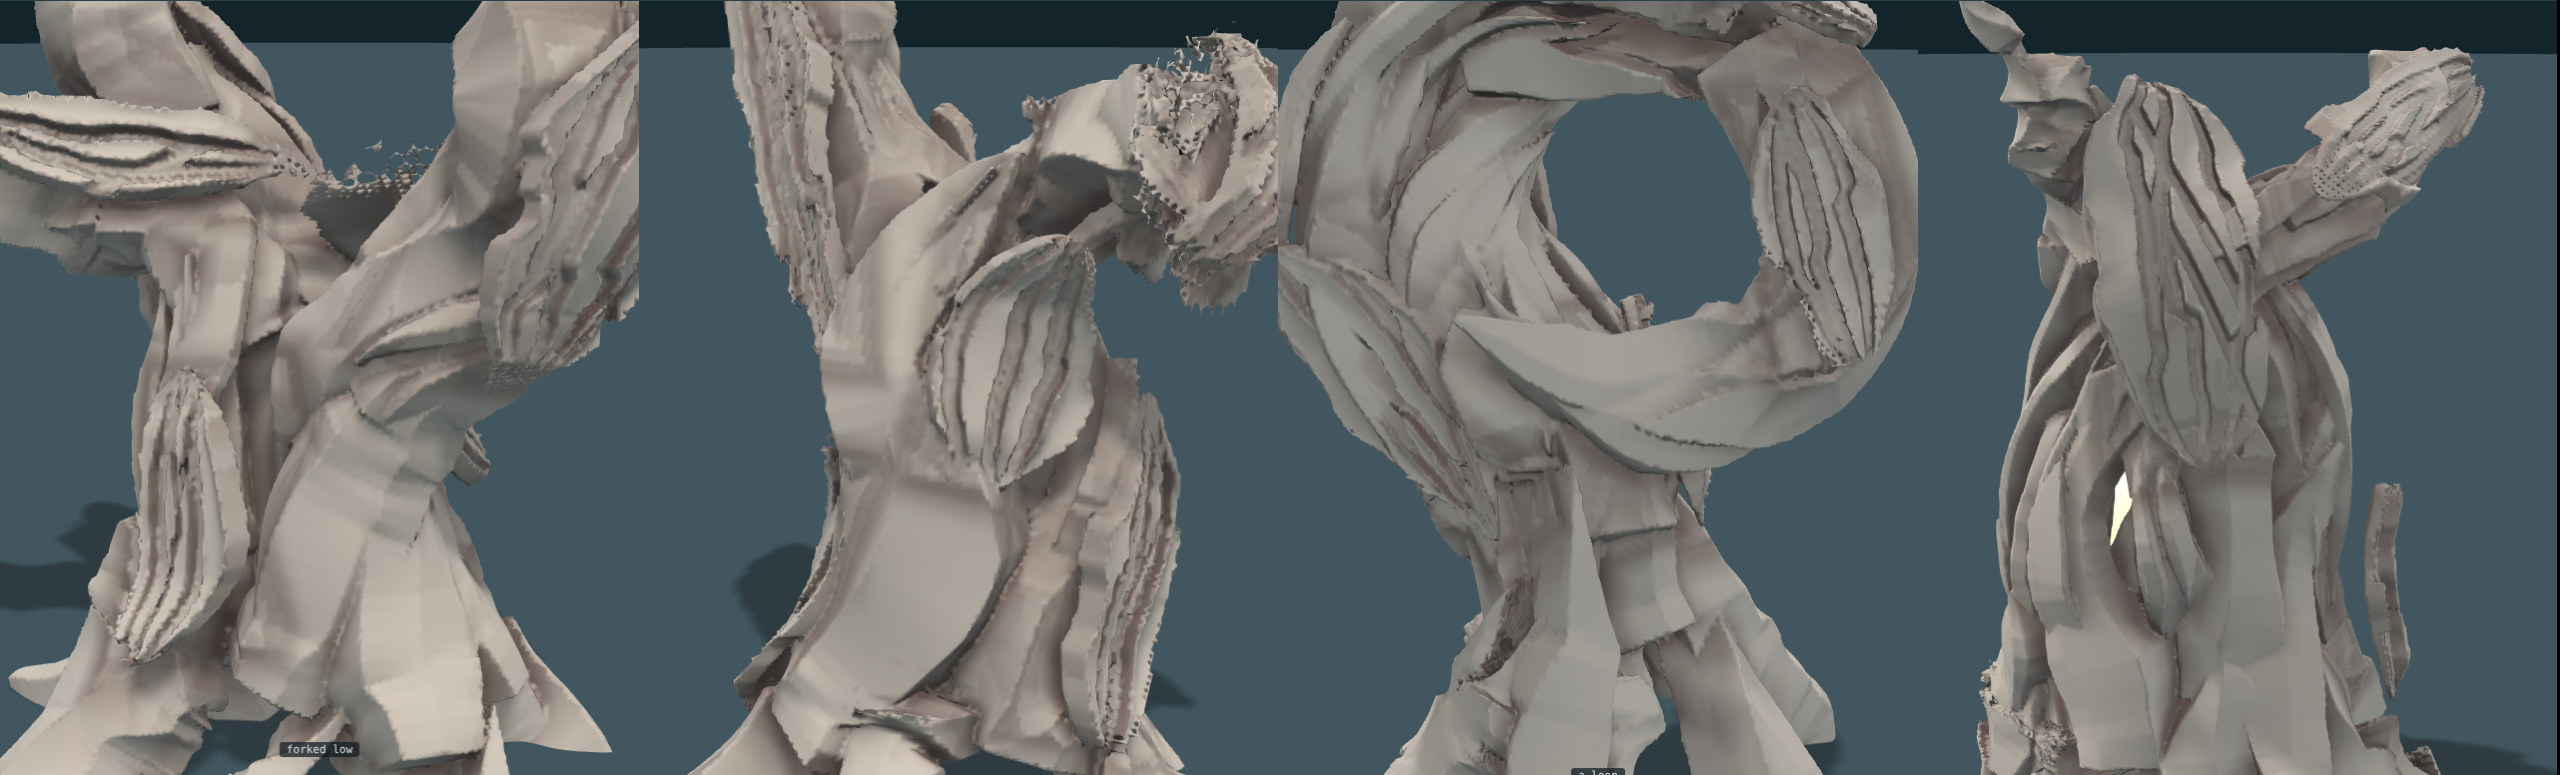
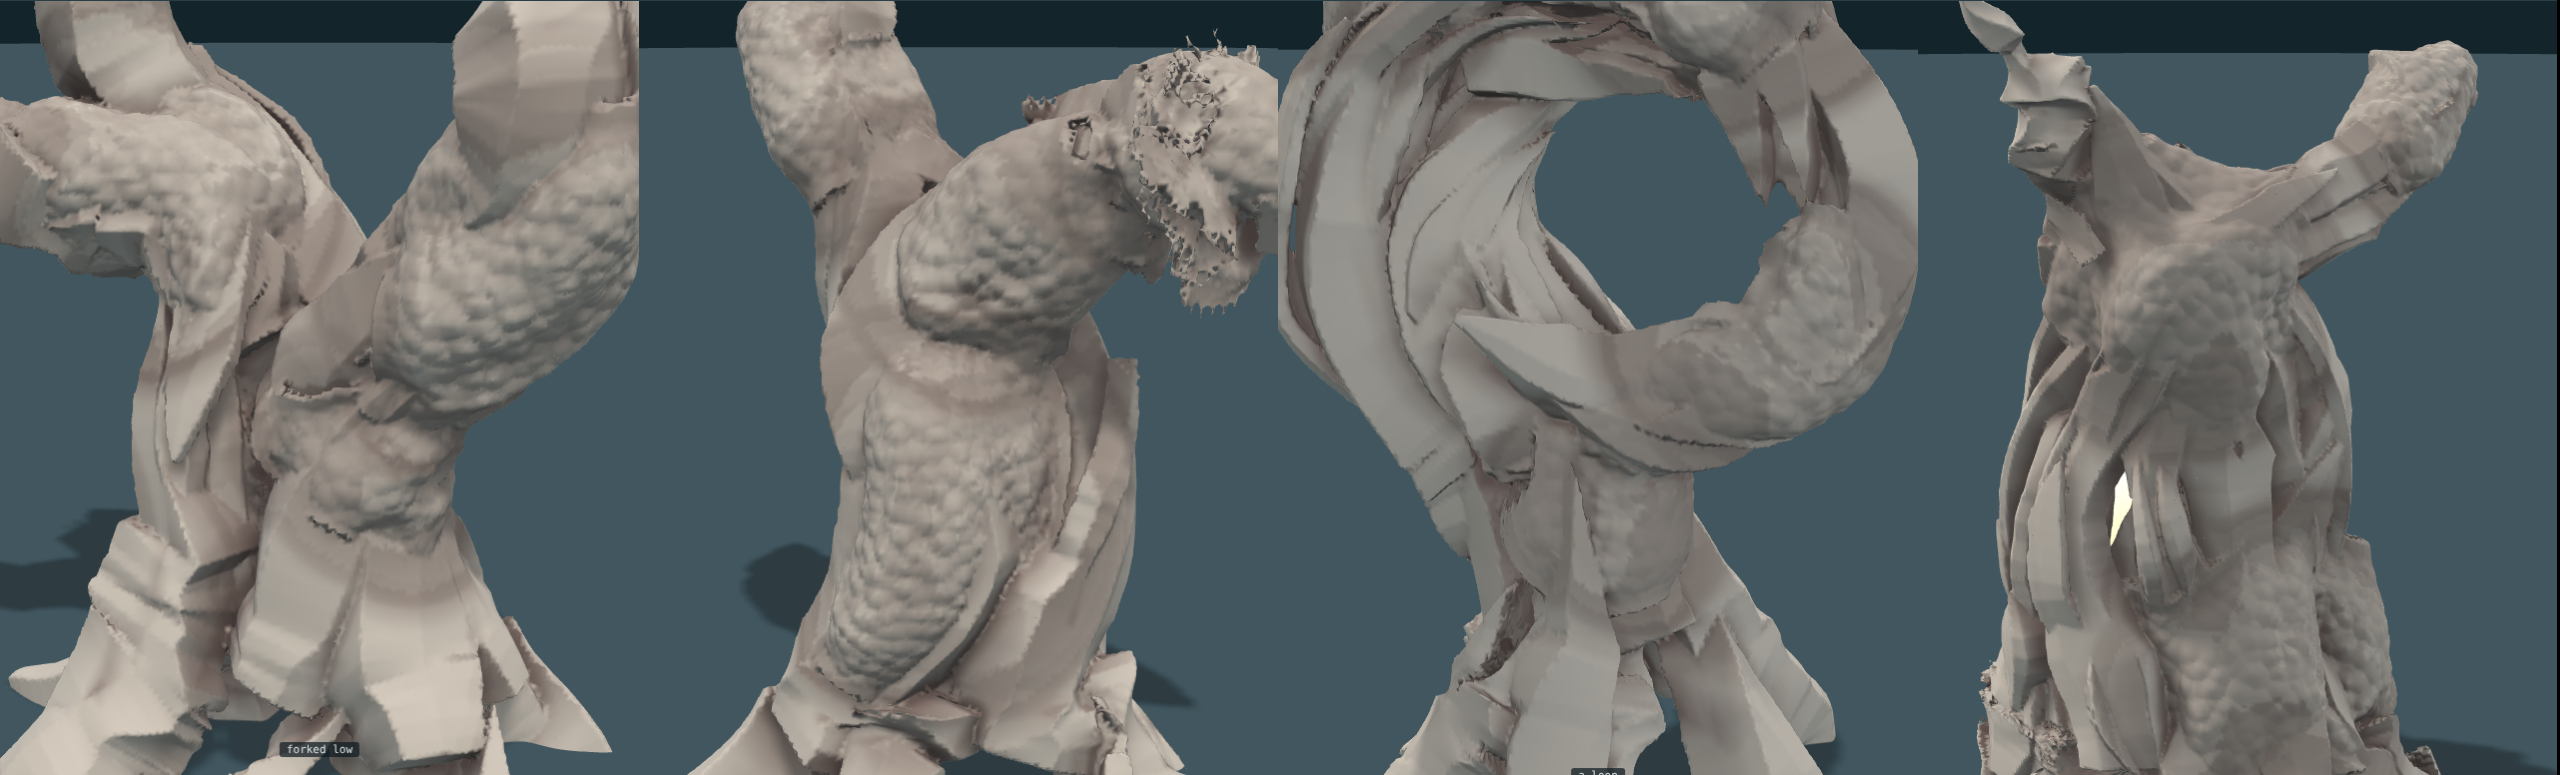
Trees: bark as sheets of tissue with coarse directionless grit; furrowed bark withdrawn
Claude-Session: https://claude.ai/code/session_0192rgp75jGkttZXf7hEakip

diff --git a/sketch/page7.js b/sketch/page7.js
@@ -5,7 +5,7 @@
 //            that snapped ends in a break, cut on the slant or stepped.
 //   slivers  narrow shards lying on the bands, pointed at both ends, their far ends standing off.
 //   shell    thin plates in a few places, a little broader than a strand, lying close.
-//   bark     the third layer: a few stiff patches lying over several strands at once, furrowed into plates. Back sunk into the band, front lying on
+//   bark     the third layer: a few sheets of tissue, each one unbroken skin over a region, with coarse grit. Back sunk into the band, front lying on
 //            top and ending in a point, a slant or a step; nearly all face toward the tip. No plate passes
 //            through another. One or two have split from the front.
 // Nothing is swept or blended. Throwaway like the other pages.
@@ -117,50 +117,37 @@
       if (!st) { count.dropped++; continue; }
       plate(s, st[0], st[1], forward, side, wide, high, split ? 'blunt' : e < 0.7 ? 'point' : 'blunt', { ridge: rd, eL, eR, split: split ? { fromEnd: true, s0: 0.42 + 0.2 * u1, s1: 1.001, u: 0.4 * (u2 - 0.5), wide: 0.2 + 0.12 * u3, lift: 0.5 + 0.5 * u4, depth: 9 } : null }, sd);
     }
-    // Bark: the third layer. A patch of bark is a stiff sheet lying over several strands at once. It rests on
-    // their ridges and spans the grooves between them, so under it the strands cannot be told apart. It is
-    // broken into long plates by furrows that run with the grain, and by an odd slanted break; each plate has
-    // its own thickness and is a little cupped. Like the shell it has a direction: its back thins into the wood
-    // and its front lifts clear, with a gap under it. There are a few patches to a tree, none near an orb.
-    const barkCount = recipe.bare ? 0 : recipe.bark === undefined ? 6 : recipe.bark, barks = [], rb = rng((recipe.seed || 1) + 123), woodPts = [];
-    for (const q of t.strands) if (!q.thread) for (let i = 0; i < q.K; i++) woodPts.push([q.X[i * 3], q.X[i * 3 + 1], q.X[i * 3 + 2], q.rho[i]]);
-    const barkPatch = (a, o, T, A, B, th) => {
-      const side = cross(T, o), g0 = 0.02, ns = Math.ceil(2 * A / g0) + 1, nu = Math.ceil(2 * B / g0) + 1; let h = new Float32Array(ns * nu).fill(-9);
-      // how high the wood stands under each place of the patch
-      for (const p of woodPts) { const d = [p[0] - a[0], p[1] - a[1], p[2] - a[2]], ps = dot(d, T), pu = dot(d, side), pv = dot(d, o), R = 1.3 * p[3]; if (Math.abs(ps) > A + R || Math.abs(pu) > B + R || pv < -0.2) continue;
-        for (let i = Math.max(0, Math.ceil((ps - R + A) / g0)); i <= Math.min(ns - 1, Math.floor((ps + R + A) / g0)); i++) for (let j = Math.max(0, Math.ceil((pu - R + B) / g0)); j <= Math.min(nu - 1, Math.floor((pu + R + B) / g0)); j++) { const q2 = ((i * g0 - A - ps) ** 2 + (j * g0 - B - pu) ** 2) / (R * R); if (q2 < 1) { const hh = pv + p[3] * Math.sqrt(1 - q2); if (hh > h[i * nu + j]) h[i * nu + j] = hh; } } }
-      for (let q = 0; q < h.length; q++) if (h[q] < -0.12) h[q] = -9;
-      // the sheet is stiff: it spans grooves (takes the highest wood near by) and is evened out, more along the grain
-      const sweep = (di, dj, rad, fn) => { const out = new Float32Array(h.length).fill(-9); for (let i = 0; i < ns; i++) for (let j = 0; j < nu; j++) { let acc = fn === 'max' ? -9 : 0, w = 0; for (let e = -rad; e <= rad; e++) { const ii = i + di * e, jj = j + dj * e; if (ii < 0 || ii >= ns || jj < 0 || jj >= nu) continue; const v = h[ii * nu + jj]; if (v < -5) continue; if (fn === 'max') acc = Math.max(acc, v); else { acc += v; w++; } } out[i * nu + j] = fn === 'max' ? acc : (w && h[i * nu + j] > -5 ? acc / w : -9); } h = out; };
-      sweep(0, 1, 3, 'max'); sweep(1, 0, 1, 'max'); for (let pass = 0; pass < 2; pass++) { sweep(0, 1, 2, 'mean'); sweep(1, 0, 4, 'mean'); }
-      const C = [], reach = [];
-      for (let i = 0; i < ns; i++) for (let j = 0; j < nu; j++) { const v = h[i * nu + j]; if (v < -5) continue; const P = [0, 1, 2].map((c) => a[c] + T[c] * (i * g0 - A) + side[c] * (j * g0 - B) + o[c] * v);
-        if (t.orb && H(P[0] - t.orb.c[0], P[1] - t.orb.c[1], P[2] - t.orb.c[2]) < t.orb.room * 1.6) { h[i * nu + j] = -9; continue; } if (i % 2 === 0 && j % 2 === 0) { C.push(P); reach.push(0.05 + th); } }
-      if (C.length < 12) return null;
-      for (let pass = 0; pass < 4; pass++) { const out = Float32Array.from(h); for (let i = 0; i < ns; i++) for (let j = 0; j < nu; j++) { if (h[i * nu + j] > -5) continue; let acc = 0, w = 0; for (const [di, dj] of [[1, 0], [-1, 0], [0, 1], [0, -1]]) { const ii = i + di, jj = j + dj; if (ii < 0 || ii >= ns || jj < 0 || jj >= nu || h[ii * nu + jj] < -5) continue; acc += h[ii * nu + jj]; w++; } if (w) out[i * nu + j] = acc / w - 0.03; } h = out; }   // at its edges the sheet turns down into the wood
-      const jl = Wood5.wander(2 * A, rb, 0.05), jr = Wood5.wander(2 * A, rb, 0.05), nF = 1 + Math.floor(B / 0.055 * (0.6 + 0.6 * rb())), fur = [], thj = [], curl = [];
-      for (let k = 0; k < nF; k++) fur.push({ c: -0.7 + 1.4 * (k + 0.5 + 0.8 * (rb() - 0.5)) / nF, jog: Wood5.wander(2 * A, rb, 0.04), g: 0.012 + 0.008 * rb() });
-      fur.sort((p, q) => p.c - q.c);
-      for (let k = 0; k <= nF; k++) { thj.push(0.65 + 0.7 * rb()); curl.push(0.15 + 0.5 * rb()); }
-      const breaks = []; for (let k = Math.floor(1 + 2 * rb()); k > 0; k--) breaks.push({ s0: A * (-0.5 + 1.2 * rb()), slope: (rb() < 0.5 ? -1 : 1) * (1.8 + 1.4 * rb()), g: 0.009 + 0.005 * rb(), from: Math.floor(rb() * (nF + 1)), to: 0 }); for (const b of breaks) b.to = b.from + Math.floor(rb() * 2);
-      const lift = th * (0.6 + 1.6 * rb());
-      const f = (x, y, z) => { const d = [x - a[0], y - a[1], z - a[2]], ps = dot(d, T), pu = dot(d, side), pv = dot(d, o); if (Math.abs(ps) > A || Math.abs(pu) > B) return Math.max(0.02, Math.abs(ps) - A, Math.abs(pu) - B);
-        const fi = (ps + A) / g0, fj = (pu + B) / g0, i = Math.min(ns - 2, Math.floor(fi)), j = Math.min(nu - 2, Math.floor(fj)), wi = fi - i, wj = fj - j, h00 = h[i * nu + j], h01 = h[i * nu + j + 1], h10 = h[(i + 1) * nu + j], h11 = h[(i + 1) * nu + j + 1]; if (h00 < -5 || h01 < -5 || h10 < -5 || h11 < -5) return 0.03;
-        const hs = (h00 * (1 - wj) + h01 * wj) * (1 - wi) + (h10 * (1 - wj) + h11 * wj) * wi, sn = ps / A, prof = Math.pow(Math.max(0, 1 - Math.pow(Math.abs(sn), 1.6)), 0.55), uHi = B * prof * (0.78 + 0.2 * jr(ps + A)), uLo = -B * prof * (0.78 + 0.2 * jl(ps + A));
-        let l = uLo, rgt = uHi, plate = 0, cut = -1; for (let k = 0; k < nF; k++) { const fu = (fur[k].c + 0.14 * fur[k].jog(ps + A)) * B * prof; if (fu < pu) { l = fu; plate = k + 1; } else if (rgt === uHi) rgt = fu; cut = Math.max(cut, fur[k].g * Math.sqrt(Math.max(0, 1 - sn * sn)) - Math.abs(pu - fu)); }
-        const mid = (l + rgt) / 2, hw = Math.max(0.01, (rgt - l) / 2), back = sstep(-1, -0.5, sn), up = lift * sstep(0.4, 1, sn), top = hs + th * (thj[plate] + curl[plate] * ((pu - mid) / hw) ** 2) * back + up, bottom = hs - 0.012 + up * 0.85;
-        for (const b of breaks) if (plate >= b.from && plate <= b.to) cut = Math.max(cut, b.g - Math.abs(ps - b.s0 - b.slope * pu) / H(1, b.slope));   // a break runs on the slant, never square across
-        // a furrow is a groove in the bark, deepest at its middle, not a cut through to the wood
-        return Math.max(pv - top, bottom - pv, uLo - pu, pu - uHi, Math.min(cut * 2.2, pv - (hs + up + th * thj[plate] * 0.3 * back))); };
-      return { f, C, reach, a, o, plates: nF + 1 }; };
+    // Bark: the third layer. Sheets of tissue. A sheet is one unbroken skin over a region of the tree: it lies on
+    // the wood, spans the grooves between strands so that nothing shows through, and goes round the tree with
+    // it. Its outline is irregular and it thins to nothing at its edge. Its surface has no grain: only coarse
+    // grit, rounded lumps of one size, the same in every direction. A few sheets to a tree, none over an orb.
+    const barkCount = recipe.bare ? 0 : recipe.bark === undefined ? 5 : recipe.bark, barks = [], rb = rng((recipe.seed || 1) + 123), wcell = 0.1, wgrid = new Map(), wkey = (x, y, z) => (Math.floor(x / wcell) + 512) * 1048576 + (Math.floor(y / wcell) + 512) * 1024 + Math.floor(z / wcell) + 512;
+    for (const q of t.strands) if (!q.thread) for (let i = 0; i < q.K; i++) { const p = [q.X[i * 3], q.X[i * 3 + 1], q.X[i * 3 + 2], q.rho[i]], k = wkey(p[0], p[1], p[2]), b = wgrid.get(k); if (b) b.push(p); else wgrid.set(k, [p]); }
+    // how far a place is outside the wood, taken softly so that the grooves between strands are bridged
+    const soft = 0.02, envelope = (x, y, z) => { let sum = 0; for (let a = -2; a <= 2; a++) for (let b = -2; b <= 2; b++) for (let c = -2; c <= 2; c++) { const g = wgrid.get(wkey(x + a * wcell, y + b * wcell, z + c * wcell)); if (!g) continue; for (const p of g) { const d = H(x - p[0], y - p[1], z - p[2]) - 0.95 * p[3]; if (d < 0.2) sum += Math.exp(-d / soft); } } return sum > 0 ? -soft * Math.log(sum) : 0.2; };
+    // coarse grit: the distance to the nearest of a scatter of points, one to a cell, so it has no direction
+    const hash3 = (i, j, k, n) => { let v = Math.imul(i, 374761393) ^ Math.imul(j, 668265263) ^ Math.imul(k, 1440662683) ^ Math.imul(n, 2246822519); v = Math.imul(v ^ (v >>> 13), 1274126177); return ((v ^ (v >>> 16)) >>> 0) / 4294967296; };
+    const grit = (x, y, z, g) => { const X = x / g, Y = y / g, Z = z / g, i0 = Math.floor(X), j0 = Math.floor(Y), k0 = Math.floor(Z); let best = 9; for (let a = -1; a <= 1; a++) for (let b = -1; b <= 1; b++) for (let c = -1; c <= 1; c++) { const i = i0 + a, j = j0 + b, k = k0 + c, d = H(X - i - hash3(i, j, k, 1), Y - j - hash3(i, j, k, 2), Z - k - hash3(i, j, k, 3)); if (d < best) best = d; } return Math.max(-0.4, 0.62 - best); };
+    const sheet = (a, R0, th) => {
+      const g0 = 0.02, R1 = R0 * 1.05, n = Math.ceil(2 * R1 / g0) + 2, lo = a.map((v) => v - R1 - g0), E = new Float32Array(n * n * n).fill(0.2), C = [], reach = [], v1 = unit([rb() - 0.5, rb() - 0.5, rb() - 0.5]), v2 = unit([rb() - 0.5, rb() - 0.5, rb() - 0.5]), p1 = rb() * 6.3, p2 = rb() * 6.3, grain = 0.032 + 0.008 * rb();
+      const reachAt = (dx, dy, dz, d) => R0 * (0.6 + 0.4 * (0.5 + 0.5 * Math.sin(3.1 * (dx * v1[0] + dy * v1[1] + dz * v1[2]) / d + p1) * Math.sin(2.3 * (dx * v2[0] + dy * v2[1] + dz * v2[2]) / d + p2)));   // an irregular outline
+      for (let i = 0; i < n; i++) for (let j = 0; j < n; j++) for (let k = 0; k < n; k++) { const x = lo[0] + i * g0, y = lo[1] + j * g0, z = lo[2] + k * g0; if (H(x - a[0], y - a[1], z - a[2]) > R1 + 2 * g0) continue; const e = envelope(x, y, z); E[(i * n + j) * n + k] = e; if (Math.abs(e) < 0.05 && (i + j + k) % 2 === 0) { C.push([x, y, z]); reach.push(0.05 + th); } }
+      if (C.length < 30) return null;
+      const f = (x, y, z) => { const dx = x - a[0], dy = y - a[1], dz = z - a[2], d = H(dx, dy, dz) || 1e-9; if (d > R1) return Math.max(0.02, d - R1);
+        const m = 1 - d / reachAt(dx, dy, dz, d); if (m < -0.08) return 0.03; let fade = sstep(0, 0.3, m); if (t.orb) fade *= sstep(0, 1, (H(x - t.orb.c[0], y - t.orb.c[1], z - t.orb.c[2]) - t.orb.room * 1.35) / 0.08);
+        const fi = (x - lo[0]) / g0, fj = (y - lo[1]) / g0, fk = (z - lo[2]) / g0, i = Math.max(0, Math.min(n - 2, Math.floor(fi))), j = Math.max(0, Math.min(n - 2, Math.floor(fj))), k = Math.max(0, Math.min(n - 2, Math.floor(fk))), wi = fi - i, wj = fj - j, wk = fk - k, at3 = (ii, jj, kk) => E[(ii * n + jj) * n + kk];
+        const e = ((at3(i, j, k) * (1 - wk) + at3(i, j, k + 1) * wk) * (1 - wj) + (at3(i, j + 1, k) * (1 - wk) + at3(i, j + 1, k + 1) * wk) * wj) * (1 - wi) + ((at3(i + 1, j, k) * (1 - wk) + at3(i + 1, j, k + 1) * wk) * (1 - wj) + (at3(i + 1, j + 1, k) * (1 - wk) + at3(i + 1, j + 1, k + 1) * wk) * wj) * wi;
+        // the skin: thin, from a little inside the wood out to its thickness, which falls to nothing (and below) at
+        // the edge; grit on its outer face, right to the edge
+        return Math.max(e - (th * fade - 0.02 * (1 - fade)) - 0.011 * sstep(0, 0.06, m) * grit(x, y, z, grain), -(e + 0.035)); };
+      return { f, C, reach, a, R0 }; };
     for (let tries = 0; barks.length < barkCount && tries < 80 && thick.length; tries++) {
-      const s = thick[Math.floor(rb() * thick.length)], k = s.root + 6 + Math.floor(rb() * Math.max(1, s.K - s.root - 14)), fwd = rb() < 0.9, A = 0.2 + 0.2 * rb(), B = 0.1 + 0.1 * rb(), th = 0.03 + 0.012 * rb(); if (!outer(s, k)) continue;
-      const a = at(s, k), o = s.O[k]; if (t.orb && H(a[0] - t.orb.c[0], a[1] - t.orb.c[1], a[2] - t.orb.c[2]) < t.orb.room * 2.2) continue;
-      if (barks.some((b) => H(b.a[0] - a[0], b.a[1] - a[1], b.a[2] - a[2]) < 0.36 && dot(b.o, o) > 0)) continue;
-      let T = tan(s, k); const al = dot(T, o); T = unit(T.map((v, c) => (v - o[c] * al) * (fwd ? 1 : -1)));
-      const bp = barkPatch(a, o, T, A, B, th); if (bp) { barks.push(bp); all.push(bp); }
+      const s = thick[Math.floor(rb() * thick.length)], k = s.root + 6 + Math.floor(rb() * Math.max(1, s.K - s.root - 14)), R0 = 0.24 + 0.18 * rb(), th = 0.012 + 0.006 * rb(); if (!outer(s, k)) continue;
+      const a = at(s, k); if (t.orb && H(a[0] - t.orb.c[0], a[1] - t.orb.c[1], a[2] - t.orb.c[2]) < t.orb.room * 2.0) continue;
+      if (barks.some((b) => H(b.a[0] - a[0], b.a[1] - a[1], b.a[2] - a[2]) < 0.75 * (b.R0 + R0))) continue;
+      const bp = sheet(a, R0, th); if (bp) { barks.push(bp); all.push(bp); }
     }
-    count.bark = barks.length; count.barkPlates = barks.reduce((v, b) => v + b.plates, 0);
+    count.bark = barks.length;
     // which strands are near which place, so that only those are asked
     const cell = 0.12, grid = new Map(), key = (x, y, z) => (x + 64) * 16384 + (y + 64) * 128 + z + 64;
     all.forEach((s, i) => { const seen = new Set(); s.C.forEach((c, j) => { const m = s.reach[j] + 0.06;

diff --git a/LOG.md b/LOG.md
@@ -2085,3 +2085,44 @@ Wrong, or not there:
 - Furrows within a patch are near parallel and evenly spaced.
 - The orb tree is the least changed: three patches, and none near the
   orb, which is where it is most wiry.
+
+**Furrowed bark withdrawn.** "It's the wrong kind of bark. It's like a
+see through mesh you've applied. I want sheets of tissue, that are patches
+around the tree. Their texture shouldn't have any direction at all. Just
+coarse grit." Kept as `sketch/page7-bark-furrowed-withdrawn.png`. It had
+furrows, plates and breaks, all along the grain: more lines on a thing
+with too many, and grooves that read as holes.
+
+Bark is now sheets of tissue:
+
+- One unbroken skin over a region. "How far outside the wood" is taken
+  softly over all the strands near by, so the grooves between them are
+  bridged, and the skin is a thin layer on that. Nothing shows through.
+- In the round. A sheet covers everything within reach of its middle, on
+  whatever side of the tree, so some go half way round a trunk or right
+  round a limb.
+- An irregular outline (its reach differs by direction), thinning to
+  nothing at the edge. Kept off an orb's room.
+- Coarse grit with no direction: the surface rises toward the nearest of
+  a scatter of points, one to a cell of about 0.035, giving rounded lumps
+  of one size. It is the first texture in this project put on a surface
+  for its own sake; the early rule against noise on surfaces was about
+  shapes being found, and this was asked for by name.
+
+Two builds. `sketch/page7-bark-tissue-first-padded.png`: 0.024 to 0.034
+thick over a loosely taken surface. Inflated pads, like cushions strapped
+on, with grit only in their middles. `sketch/page7.png`,
+`sketch/page7-bark-close.png`: 0.012 to 0.018 thick, taken closer to the
+wood, grit to the edge. The sheets follow the forms under them.
+
+Three to five sheets a tree. About 20 seconds more to build all four.
+
+Wrong, or not there:
+
+- The grit is rounded lumps, closer to pebbled or warty skin than to
+  grit. Finer or sharper grain is under what the mesh holds.
+- Where a sheet lands on a thin limb it still breaks into holes (the
+  one-limb tree's limb).
+- A sheet's edge is a soft fade into the wood. A sheet of tissue would
+  have an edge: a lip, a tear.
+- The orb tree has three sheets and none near the orb.
